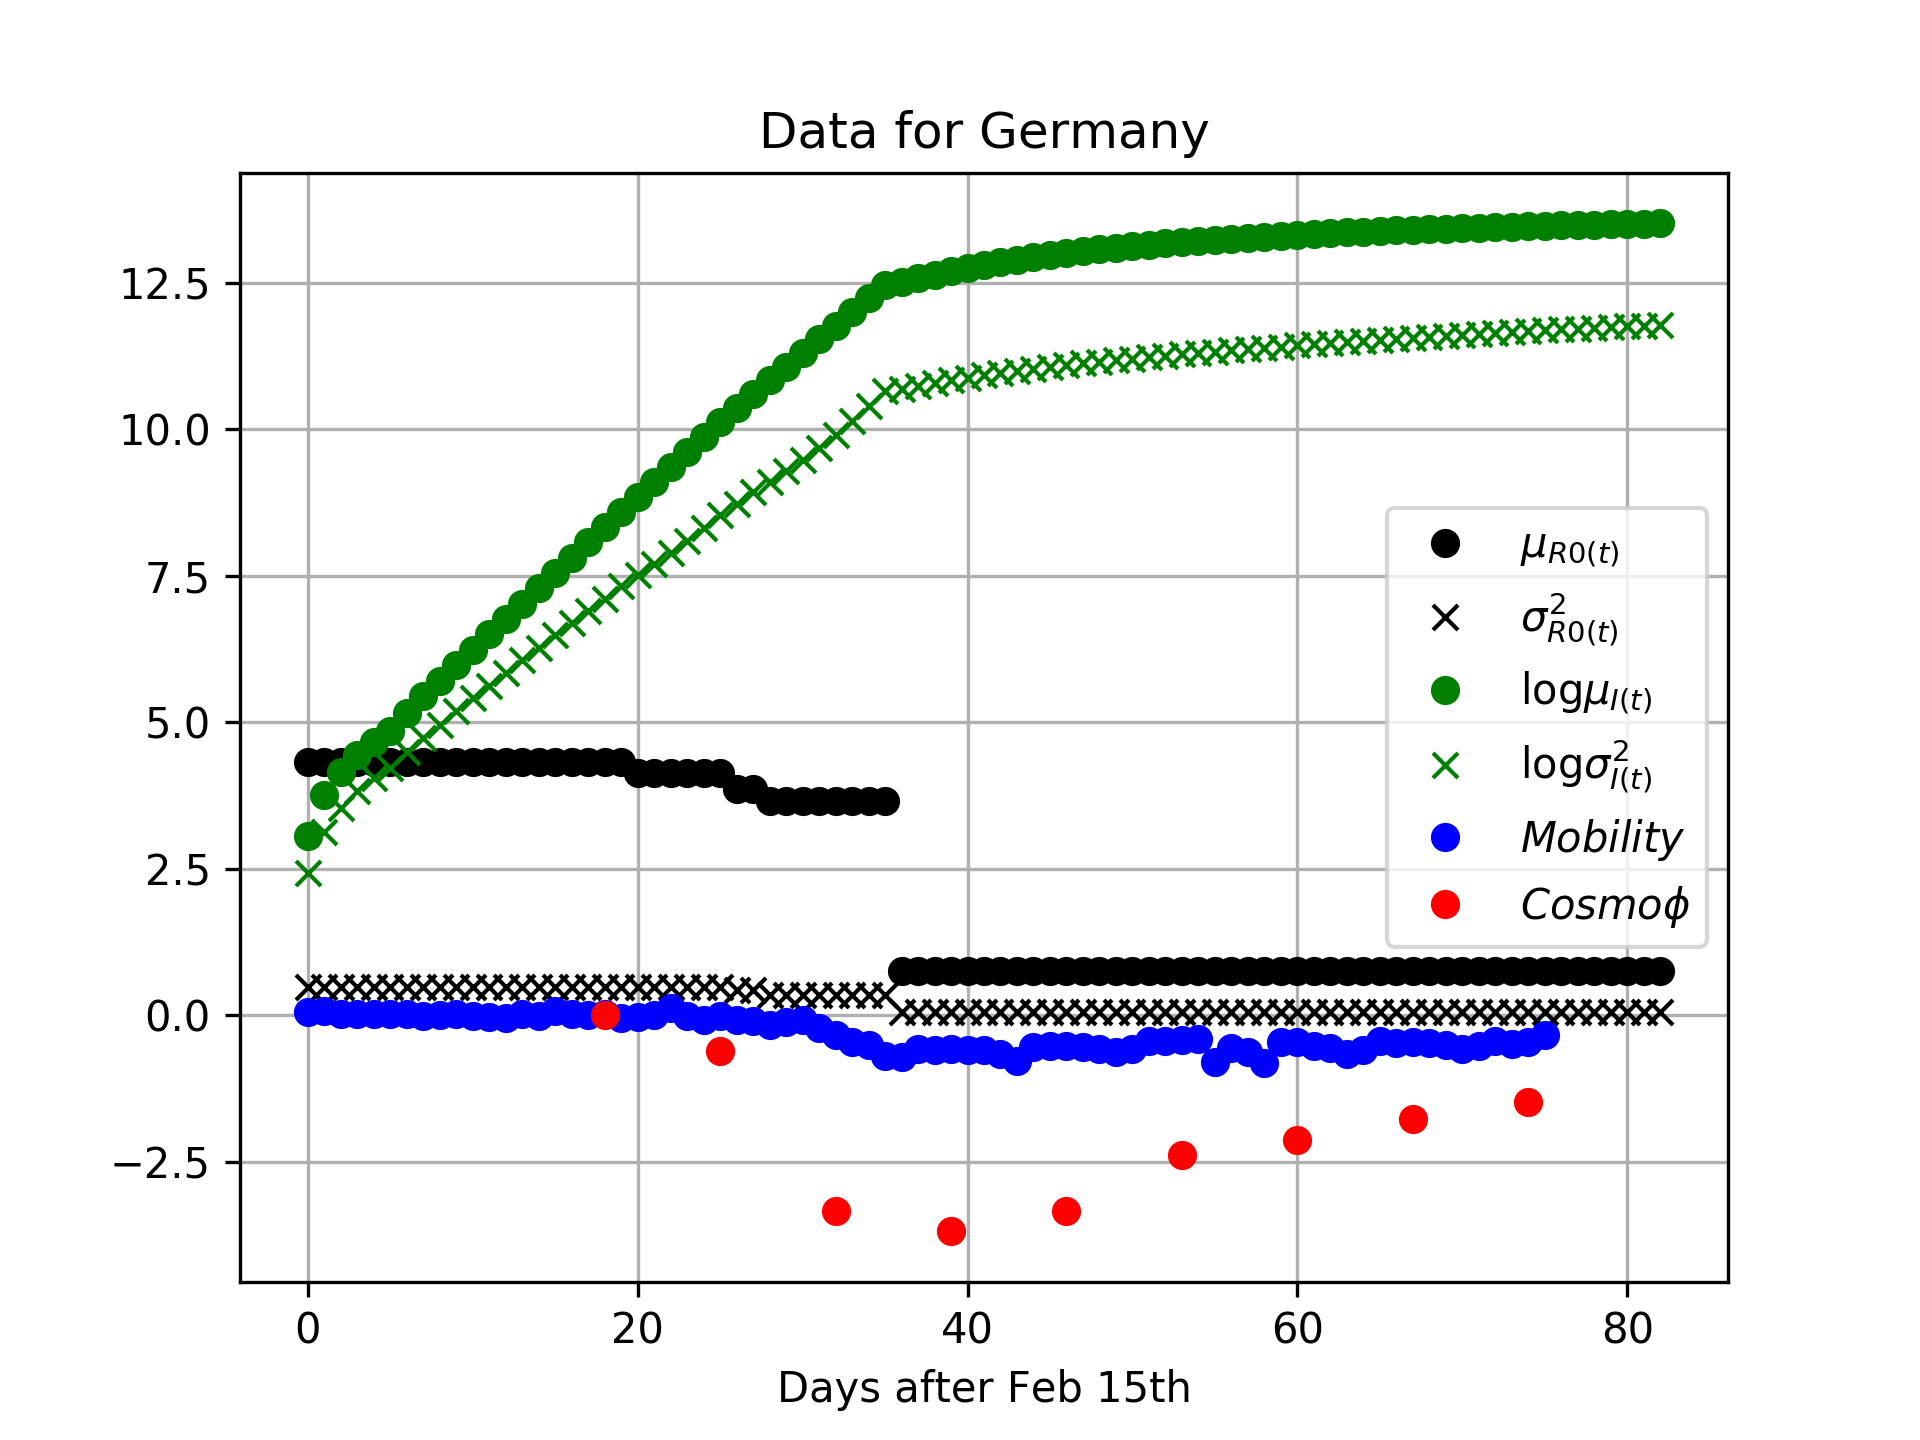
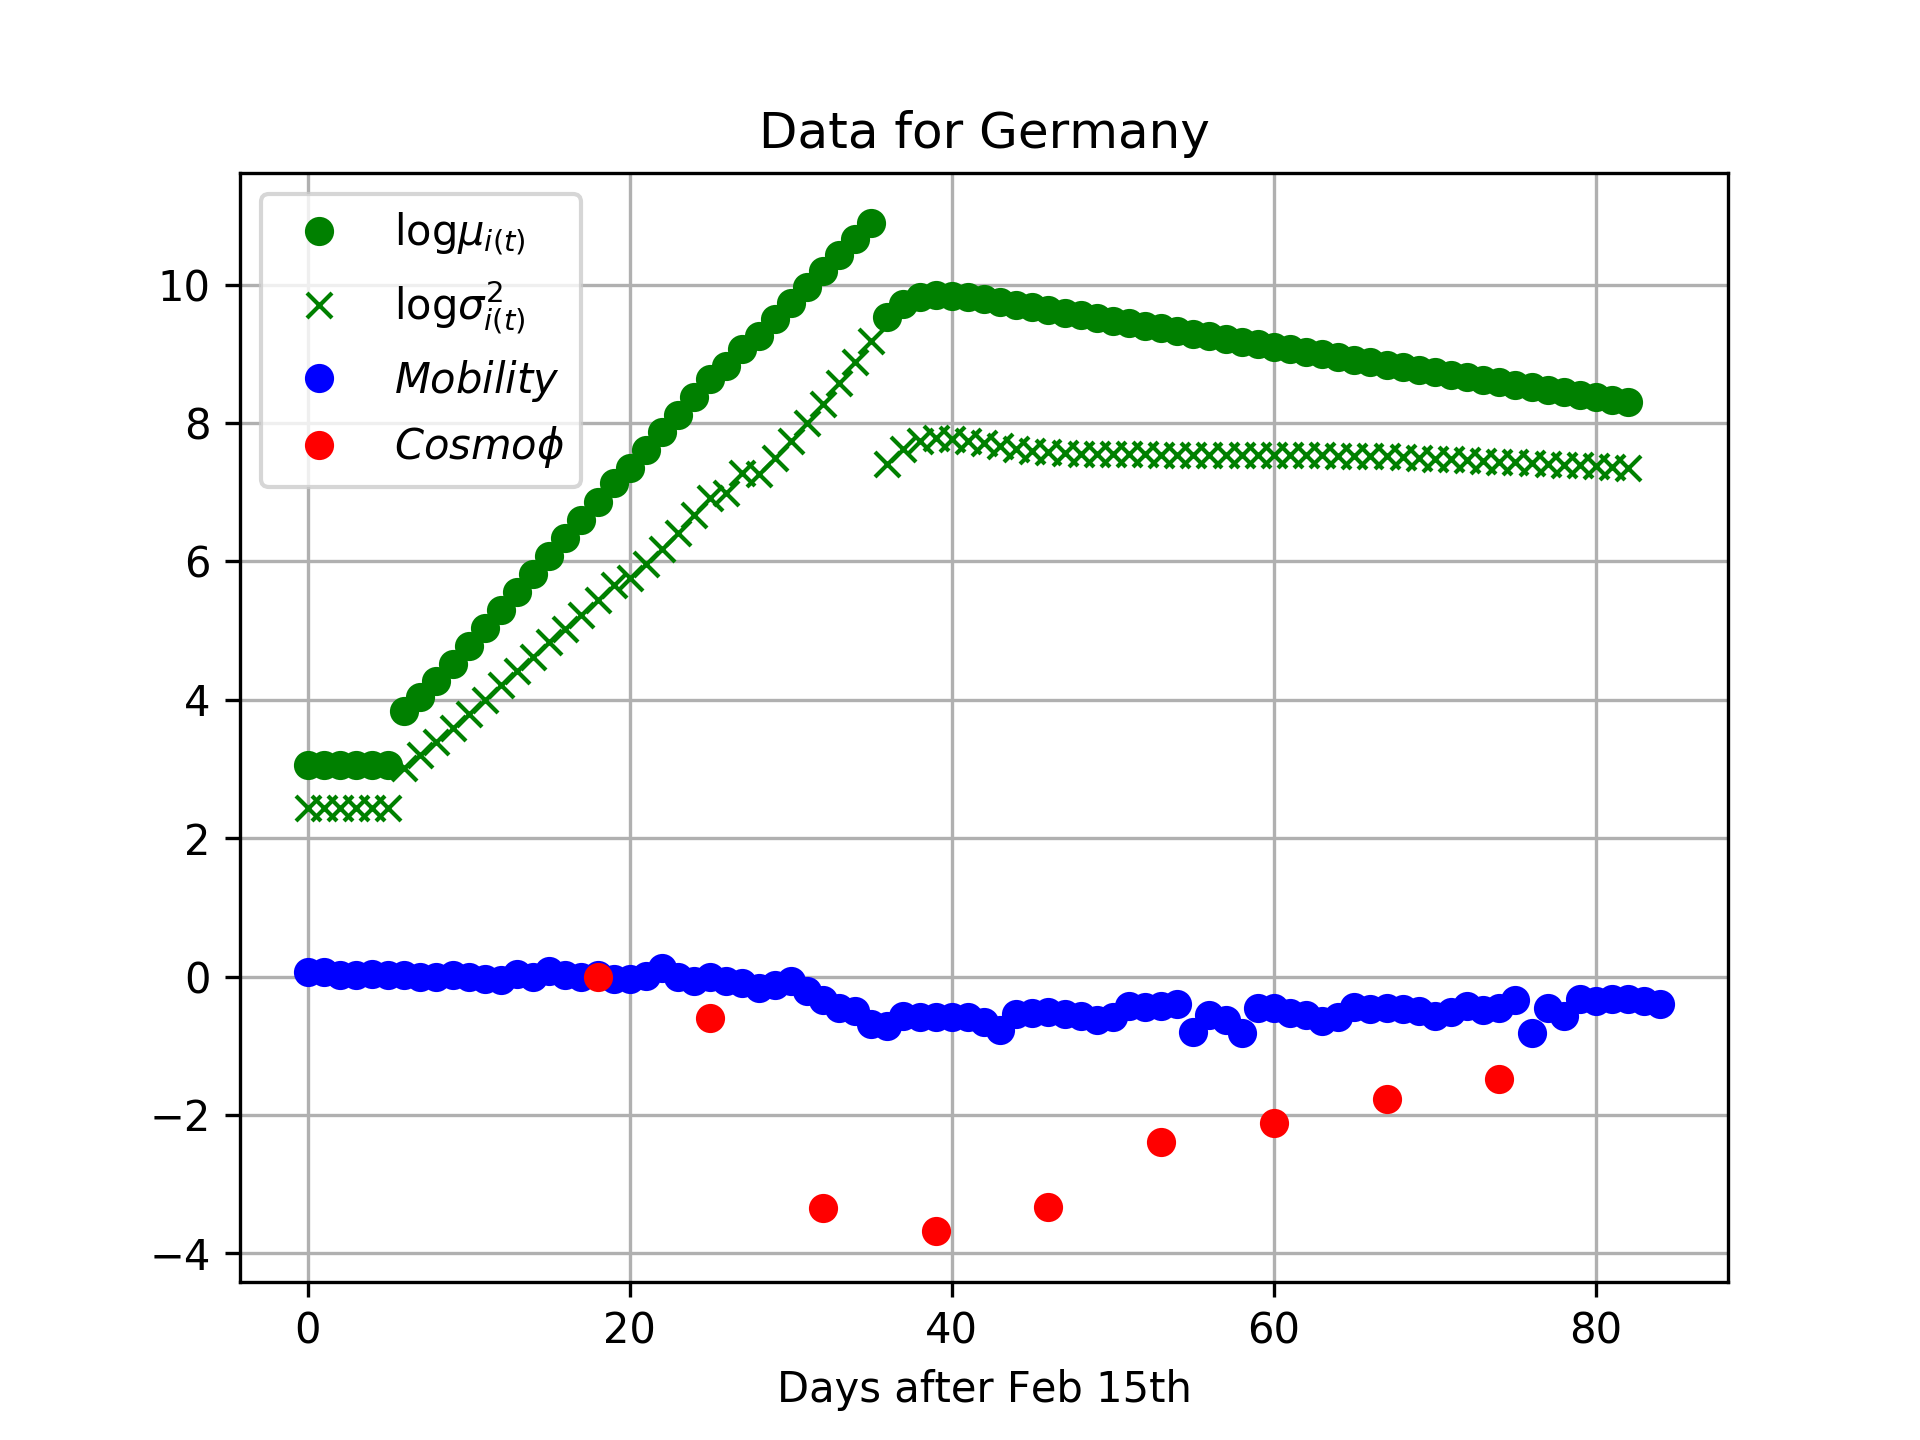
Stan update roughly ok

diff --git a/stan/plot_fit.py b/stan/plot_fit.py
@@ -4,7 +4,6 @@ import pandas as pd
 import os
 import datetime
 
-
 ## load all the data
 
 
@@ -16,8 +15,23 @@ de_rci.set_index(de_rci.date, inplace=True)
 de_rci.set_index((de_rci.index - t0).days, inplace=True)
 print(de_rci.head())
 
-de_pci = de_sir.filter(regex='date|pred.*infec.*cumulative$')
-_, kmu, kqlo, kqhi = de_pci.columns
+pl.plot(de_sir['reported_cases'])
+pl.plot(de_sir['reported_deaths'])
+pl.plot(de_sir['predicted_infections_lower_CI_95'], 'k--')
+pl.plot(de_sir['predicted_infections_higher_CI_95'], 'k--')
+pl.plot(de_sir['predicted_infections_mean'], 'k')
+pl.plot(de_sir['estimated_deaths_mean'], 'r')
+pl.plot(de_sir['estimated_deaths_lower_CI_95'], 'r--')
+pl.plot(de_sir['estimated_deaths_higher_CI_95'], 'r--')
+pl.show()
+
+
+#de_pci = de_sir.filter(regex='date|pred.*infec.*cumulative$|reported_cases$|reported_deaths$')
+de_pci = de_sir.filter(regex='date|pred.*mean$|pred.*CI_95$|reported_cases$|reported_deaths$')
+_, krc, kmu, kqlo, kqhi, krd = de_pci.columns
+print(krd)
+de_irc = np.r_[de_pci[krc]]
+de_ird = np.r_[de_pci[krd]]
 de_imu = np.r_[de_pci[kmu]]
 de_isd = (np.r_[de_pci[kqhi]] - np.r_[de_pci[kqlo]]) / 4 # 95% is z -1.9 to 1.9
 
@@ -42,15 +56,17 @@ de_phi.set_index((de_phi.index - t0).days, inplace=True)
 de_iphi = de_phi.index
 de_vphi = np.r_[de_phi][:, 1]
 
-pl.plot(de_idx, de_rmu, 'ko')
-pl.plot(de_idx, de_rsd, 'kx')
+#pl.plot(de_idx, de_rmu, 'ko')
+#pl.plot(de_idx, de_rsd, 'kx')
 pl.plot(de_idx, np.log(de_imu), 'go')
 pl.plot(de_idx, np.log(de_isd), 'gx')
+# pl.plot(de_idx, np.log(np.cumsum(de_imu)), 'go')
 pl.plot(de_mobi, de_mobp, 'bo')
 pl.plot(de_iphi, de_vphi, 'ro')
 pl.title("Data for Germany")
 pl.xlabel("Days after Feb 15th")
-pl.legend("$\mu_{R0(t)}$ $\sigma^2_{R0(t)}$ $\log{\mu_{I(t)}}$ $\log{\sigma^2_{I(t)}}$ $Mobility$ $Cosmo\phi$".split(' '))
+#pl.legend("$\mu_{R0(t)}$ $\sigma^2_{R0(t)}$ $\log{\mu_{I(t)}}$ $\log{\sigma^2_{I(t)}}$ $Mobility$ $Cosmo\phi$".split(' '))
+pl.legend("$\log{\mu_{i(t)}}$ $\log{\sigma^2_{i(t)}}$ $Mobility$ $Cosmo\phi$".split(' '))
 pl.grid(1)
 pl.savefig('german-data.png', dpi=300)
 pl.show()
@@ -62,7 +78,7 @@ cs = '/Volumes/crypt/cmdstan-2.22.1'
 stanio.compile_model(cs, 'model')
 
 data = {
-    'nii': 4,
+    'nii': 20,
     'nr': len(de_idx),
     'rid': de_idx + 1,
     'rmu': de_rmu,
@@ -72,6 +88,9 @@ data = {
     'iid': de_idx + 1,
     'imu': de_imu,
     'isd': de_isd,
+    'nc': len(de_idx),
+    'cid': de_idx + 1,
+    'cases': de_irc.astype('i'),
     'nm': len(de_mobi),
     'mid': np.r_[de_mobi] + 1,
     'mpr': de_mobp,
@@ -79,7 +98,7 @@ data = {
     'pid': np.r_[de_iphi] + 1,
     'phi': de_vphi,
     'I0': 1e-6,
-    'eps': 10.0,
+    'eps': 0.1,
     # model comparision params
     'mc_use_pse': 1,
     'mc_use_groups': 1,
@@ -88,10 +107,11 @@ data = {
     }
 init = {
     'gamma': 0.1,
-    'Gamma_': np.r_[1.0],
+    'Gamma_': np.r_[1.0, 1.0],
     'c': np.r_[0.5,5.0],
-    'alpha': 0.06,
-    'J': 4.0,
+    'alpha': 0.1,
+    'J': 1.0,
+    'ur': -1,
 }
 stanio.rdump('model.R', data)
 stanio.rdump('init.R', init)
